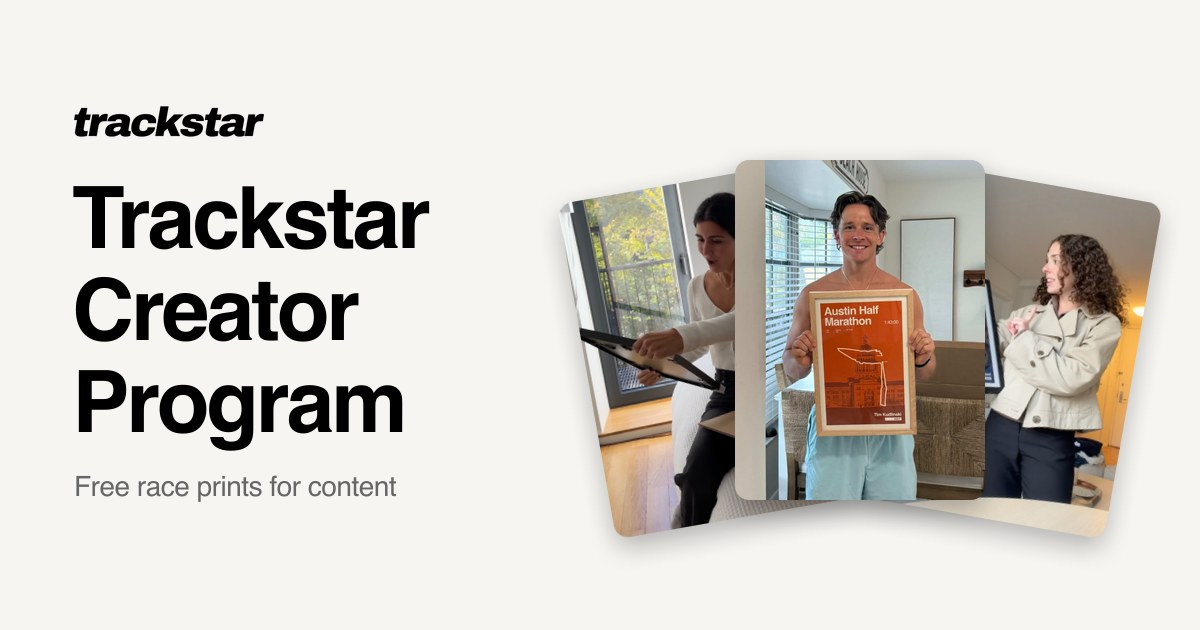
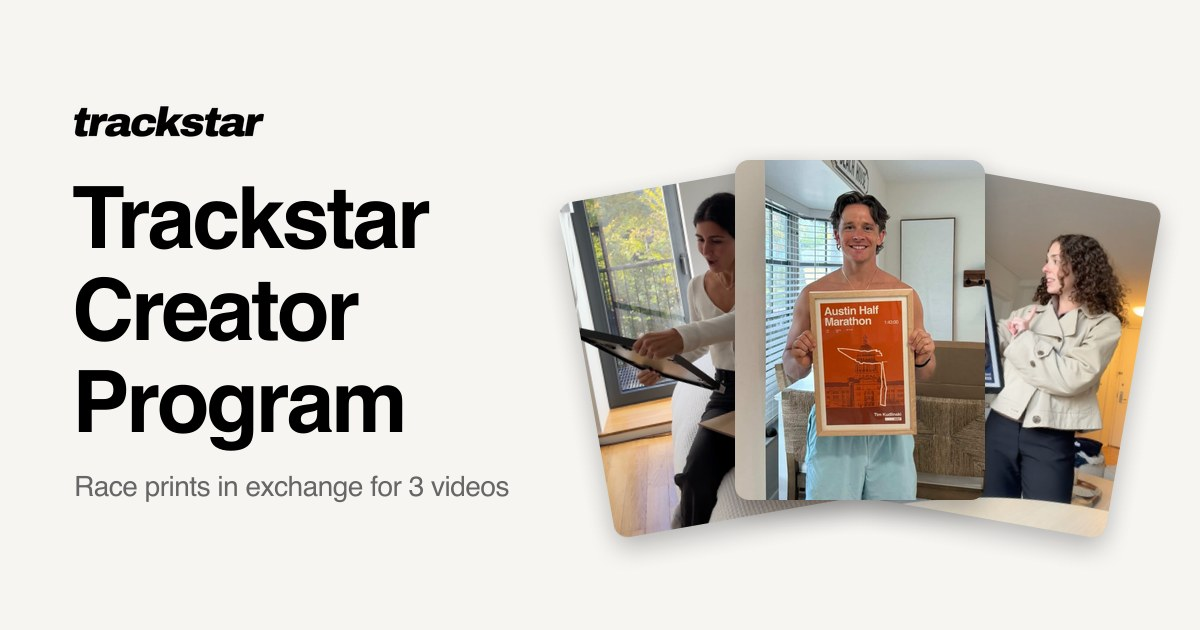
Creator program copy: no 'free'; 'in exchange for creating 3 videos'

Changed region(s): [[0.0617, 0.754, 0.4317, 0.8143]]

diff --git a/src/pages/CreatorApply.tsx b/src/pages/CreatorApply.tsx
@@ -89,10 +89,10 @@ export default function CreatorApply() {
         <section className="text-center px-4 md:px-6 pt-20 md:pt-32 pb-10 md:pb-14">
           <div className="mx-auto" style={{ maxWidth: 1120 }}>
             <h1 className="font-bold mx-auto" style={{ fontSize: 'clamp(44px, 7vw, 80px)', lineHeight: 0.98, letterSpacing: '-0.05em', maxWidth: '20ch', textWrap: 'balance' }}>
-              Get a free Trackstar print in exchange for 3 videos.
+              Get a Trackstar print in exchange for creating 3 videos.
             </h1>
             <p className="mx-auto mt-4" style={{ color: TS.muted, fontSize: 'clamp(18px, 2.2vw, 24px)', lineHeight: 1.35, maxWidth: '46ch' }}>
-              A personalized poster of the race you ran, free. You make three short videos with it.
+              Your name, bib, finish time and course, on a print made for your wall. In exchange for 3 short videos.
             </p>
             <div className="mt-8 flex justify-center">{applyButton(true)}</div>
             {error && <p className="mt-4 text-sm text-red-600">{error}</p>}

diff --git a/api/public/creator-preview.js b/api/public/creator-preview.js
@@ -35,7 +35,7 @@ export default async function handler(req, res) {
   }
   html = injectMeta(html, {
     title: 'Trackstar Creator Program',
-    description: 'Get a free Trackstar print of the race you ran in exchange for 3 short videos.',
+    description: 'A personalized Trackstar print of the race you ran, in exchange for 3 short videos.',
     image: `${proto}://${host}/og-creator-program.jpg`,
   })
   res.setHeader('Content-Type', 'text/html; charset=utf-8')
